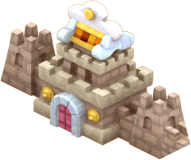
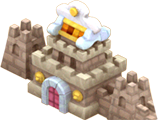
主页面调整

diff --git a/Views/CityView.js b/Views/CityView.js
@@ -83,12 +83,14 @@ CityView.prototype.showBuildView=function(name){
 };
 CityView.prototype.buildLayerInit=function(){
 	var self = this;
-	self.buildLayer.addEventListener(LMouseEvent.MOUSE_UP, self.onBuildClick.bind(self));
-	var alpha = self.controller.getValue("selfCity") ? 1 : 0.5;
+	if(self.controller.getValue("selfCity")){
+		self.buildLayer.addEventListener(LMouseEvent.MOUSE_UP, self.onBuildClick.bind(self));
+	}
+	//var alpha = self.controller.getValue("selfCity") ? 1 : 0.5;
+	//official.alpha = self.controller.getValue("cityFree") ? 1 : 0.5;
 	var official = new BuildView(self.controller,"main-official","official");
 	official.x = (LGlobal.width - official.width)*0.5;
 	official.y = (LGlobal.height - official.height) * 0.4;
-	official.alpha = self.controller.getValue("cityFree") ? 1 : 0.5;
 	self.buildLayer.addChild(official);
 	var iconAppoint = new LBitmap(new LBitmapData(LMvc.datalist["icon-appoint"]));
 	iconAppoint.name = "official";
@@ -98,10 +100,9 @@ CityView.prototype.buildLayerInit=function(){
 	self.iconAppoint = iconAppoint;
 	self.iconAppoint.visible = self.controller.getValue("isAppoint");
 	
-	var institute = new BuildView(self.controller,"main-tavern","institute");
+	var institute = new BuildView(self.controller,"main-institute","institute");
 	institute.x = 0;
 	institute.y = 160;
-	institute.alpha = alpha;
 	self.buildLayer.addChild(institute);
 	
 	var citygate = new BuildView(self.controller,"main-citygate","citygate");
@@ -110,25 +111,21 @@ CityView.prototype.buildLayerInit=function(){
 	
 	var tavern = new BuildView(self.controller,"main-tavern","tavern");
 	tavern.y = institute.y + institute.height + (citygate.y - institute.y - institute.height - tavern.height) * 0.5;
-	tavern.alpha = alpha;
 	self.buildLayer.addChild(tavern);
 	
 	var market = new BuildView(self.controller,"main-shop","market");
 	market.x = LGlobal.width - market.width;
 	market.y = 160;
-	market.alpha = alpha;
 	self.buildLayer.addChild(market);
 	
 	var barrack = new BuildView(self.controller,"main-trainingGround","barrack");
 	barrack.x = LGlobal.width - barrack.width;
 	barrack.y = LGlobal.height - barrack.height - 100;
-	barrack.alpha = alpha;
 	self.buildLayer.addChild(barrack);
 	
-	var farmland = new BuildView(self.controller,"main-tavern","farmland");
+	var farmland = new BuildView(self.controller,"main-farmland","farmland");
 	farmland.x = LGlobal.width - farmland.width;
 	farmland.y = market.y + market.height + (barrack.y - market.y - market.height - farmland.height) * 0.5;
-	farmland.alpha = alpha;
 	self.buildLayer.addChild(farmland);
 };
 CityView.prototype.footerLayerInit=function(){
@@ -145,11 +142,11 @@ CityView.prototype.footerLayerInit=function(){
 	buttonGenerals.x = buttonMap.x + buttonWidth + 10;
 	self.footerLayer.addChild(buttonGenerals);
 	buttonGenerals.addEventListener(LMouseEvent.MOUSE_UP, self.onClickGeneralsButton);
-	var buttonDiplomacy = self.getIconButton(Language.get("diplomacy"), buttonWidth, buttonHeight, "icon-general");
+	var buttonDiplomacy = self.getIconButton(Language.get("diplomacy"), buttonWidth, buttonHeight, "icon-diplomacy");
 	buttonDiplomacy.name = "diplomacy";
 	buttonDiplomacy.x = buttonGenerals.x + buttonWidth + 10;
 	self.footerLayer.addChild(buttonDiplomacy);
-	var buttonExpedition = self.getIconButton(Language.get("expedition"), buttonWidth, buttonHeight, "icon-general");
+	var buttonExpedition = self.getIconButton(Language.get("expedition"), buttonWidth, buttonHeight, "icon-expedition");
 	buttonExpedition.name = "expedition";
 	buttonExpedition.x = buttonDiplomacy.x + buttonWidth + 10;
 	self.footerLayer.addChild(buttonExpedition);

diff --git a/Models/CityModel.js b/Models/CityModel.js
@@ -7,8 +7,9 @@ CityModel.prototype.construct=function(){
 CityModel.prototype.getImages=function(){
 	var list = [
 		{name:"main-background",path:LMvc.IMG_PATH+"main/background.png"},
-		//{name:"builds-market",path:LMvc.IMG_PATH+"builds/market.png"},
 		{name:"main-official",path:LMvc.IMG_PATH+"main/official.png"},
+		{name:"main-institute",path:LMvc.IMG_PATH+"main/institute.png"},
+		{name:"main-farmland",path:LMvc.IMG_PATH+"main/farmland.png"},
 		{name:"main-tavern",path:LMvc.IMG_PATH+"main/tavern.png"},
 		{name:"main-shop",path:LMvc.IMG_PATH+"main/shop.png"},
 		{name:"checkbox-background",path:LMvc.IMG_PATH+"component/checkbox-background.png"},
@@ -20,6 +21,8 @@ CityModel.prototype.getImages=function(){
 		{name:"icon-appoint",path:LMvc.IMG_PATH+"icon/appoint.png"},
 		{name:"icon-map",path:LMvc.IMG_PATH+"icon/map.png"},
 		{name:"icon-general",path:LMvc.IMG_PATH+"icon/general.png"},
+		{name:"icon-expedition",path:LMvc.IMG_PATH+"icon/expedition.png"},
+		{name:"icon-diplomacy",path:LMvc.IMG_PATH+"icon/diplomacy.png"},
 		{name:"win02",path:LMvc.IMG_PATH+"win/win02.png"},
 		{name:"win03",path:LMvc.IMG_PATH+"win/win03.png"},
 		{name:"win04",path:LMvc.IMG_PATH+"win/win04.png"},

diff --git a/Views/Builds/BuildView.js b/Views/Builds/BuildView.js
@@ -7,16 +7,22 @@ BuildView.prototype.set=function(img,name){
 	var self = this;
 	self.name = name;
 	var layer = new LSprite();
-	var bitmap = new LBitmap(new LBitmapData(LMvc.datalist[img]));
-	self.width = bitmap.getWidth();
-	self.height = bitmap.getHeight();
-	layer.addChild(bitmap);
+	var display;
+	if(self.controller.getValue("selfCity")){
+		display = new LBitmap(new LBitmapData(LMvc.datalist[img]));
+	}else{
+		display = GameCacher.getGrayDisplayObject(img);
+	}
+	self.width = display.getWidth();
+	self.height = display.getHeight();
+	layer.addChild(display);
 	
 	var name = getStrokeLabel(Language.get(name),25,"#FFFFFF","#000000",4);
-	name.x = (bitmap.getWidth() - name.getWidth())*0.5;
-	name.y = bitmap.getHeight() - name.getHeight();
+	name.x = (display.getWidth() - name.getWidth())*0.5;
+	name.y = display.getHeight() - name.getHeight();
 	name.heightMode = LTextField.HEIGHT_MODE_BASELINE;
 	layer.addChild(name);
-	self.addChild(getBitmap(layer));
+	layer.cacheAsBitmap(true);
+	self.addChild(layer);
 	self.addShape(LShape.RECT,[0,0,self.width,self.height]);
 };

diff --git a/Libraries/GameCacher.js b/Libraries/GameCacher.js
@@ -4,6 +4,17 @@ GameCacher._areaMaps = {};
 GameCacher._areaMiniMaps = {};
 GameCacher._colorBitmapDatas = {};
 GameCacher._panelBitmapDatas = {};
+GameCacher._grayBitmapDatas = {};
+GameCacher.getGrayDisplayObject = function(key, width, height){
+	if(!GameCacher._grayBitmapDatas[key]){
+		var layer = new LSprite();
+		var bitmap = new LBitmap(new LBitmapData(LMvc.datalist[key]));    
+		layer.addChild(bitmap);
+		layer.filters = [new LColorMatrixFilter([0.3086,0.6094, 0.0820, 0, 0, 0.3086, 0.6094, 0.0820, 0, 0, 0.3086, 0.6094, 0.0820, 0, 0, 0, 0, 0, 1, 0])];
+		GameCacher._grayBitmapDatas[key] = layer;
+	}
+	return GameCacher._grayBitmapDatas[key];
+};
 GameCacher.getAreaMap = function(key){
 	if(GameCacher._areaMaps[key]){
 		return GameCacher._areaMaps[key];
